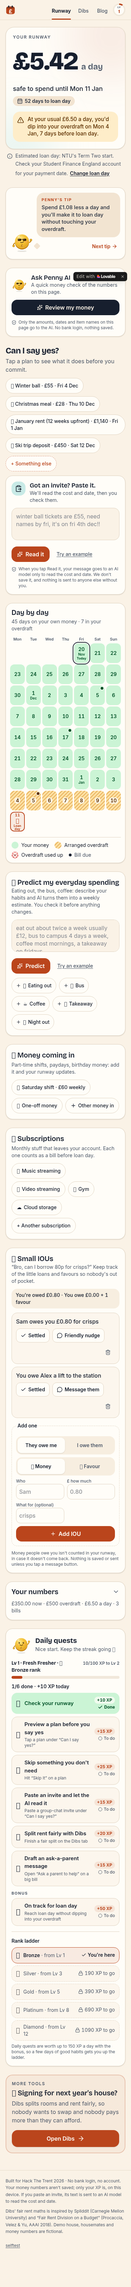
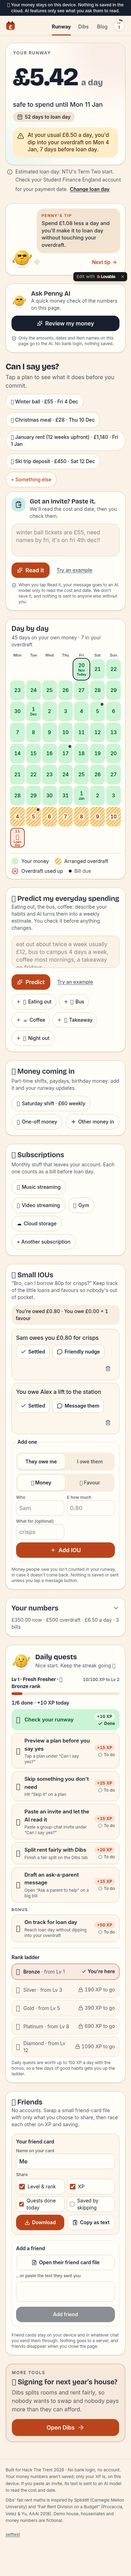
Refresh Final K evidence after privacy and Friends publish

Changed region(s): [[0.0, 0.0, 1.0, 0.9969]]

diff --git a/docs/FINAL-SMOKE.md b/docs/FINAL-SMOKE.md
@@ -158,7 +158,7 @@ heading and the 17px normal link. Adjust foreground/background contrast.
 
 ## Final K (batch 5)
 
-Live mobile run: **2026-11-20 18:21:28–18:21:50 UTC**, viewport **375×812**,
+Live mobile run: **2026-11-20 18:25:12–18:25:21 UTC**, viewport **375×812**,
 target `https://til-loan-day.lovable.app`. This is a separate batch; the results
 above describe the earlier final-smoke run, not a rerun of those checks.
 
@@ -169,25 +169,22 @@ npx --prefix e2e playwright test --config e2e/final-k.config.mjs --workers=1
 ```
 
 ```text
-2 failed
-2 passed (23.3s)
+4 passed (9.1s)
 ```
 
 | Check | 375×812 | Evidence / failure |
 | --- | --- | --- |
 | 1. Everyday spending predictor | [PASS](smoke/k-predictor-375x812.png) | Typed habits, pressed Predict; received “AI's prediction” and ≈ £51.70 a week · £7.39 a day. |
 | 2. Small IOUs demos and Friendly nudge | [PASS](smoke/k-ious-375x812.png) | Both exact demo descriptions visible; Friendly nudge href starts `https://wa.me/?text=Hey%20Sam!`. |
-| 3. Privacy banner | [FAIL — pending publication](smoke/k-privacy-375x812.png) | Expected text containing “Nothing is saved in the cloud”; element not found. Scheduled to ship around 18:45, after this run. |
-| 4. Friends section | [FAIL — pending publication](smoke/k-friends-375x812.png) | Expected Friends section heading; element not found. Scheduled to ship around 18:45, after this run. |
+| 3. Privacy banner | [PASS](smoke/k-privacy-375x812.png) | Visible banner contains “Nothing is saved in the cloud”. |
+| 4. Friends section | [PASS](smoke/k-friends-375x812.png) | Visible “👯 Friends” section heading. |
 
-Inspected the live DOM/accessibility snapshot and full-page screenshot after
-the failures. Neither requested privacy text nor Friends appears in the rendered
-page. Existing copy instead says “Your money numbers aren't saved; only your XP
-is, on this device” in the footer and “Nothing is saved or sent unless you tap a
-message button” in Small IOUs. These are **not** accepted as substitutes for the
-requested banner. No selector corrections or weakened assertions were needed.
-The two missing surfaces are pending release, not diagnosed as app regressions;
-their selectors still require validation after publication.
+The live rendered page now contains both the privacy banner and Friends section.
+The banner reads “🔒 Your money stays on this device. Nothing is saved in the
+cloud. AI features only see what you ask them to read.” Confirmed this in the
+captured page text and inspected the full-page screenshot. All four checks
+passed without selector changes or weakened assertions. No real functional
+failures remain in this batch.
 
 **Console errors / uncaught exceptions:** none in any of the four tests.
 **Horizontal scroll:** none; initial and final document scrollWidth/clientWidth
